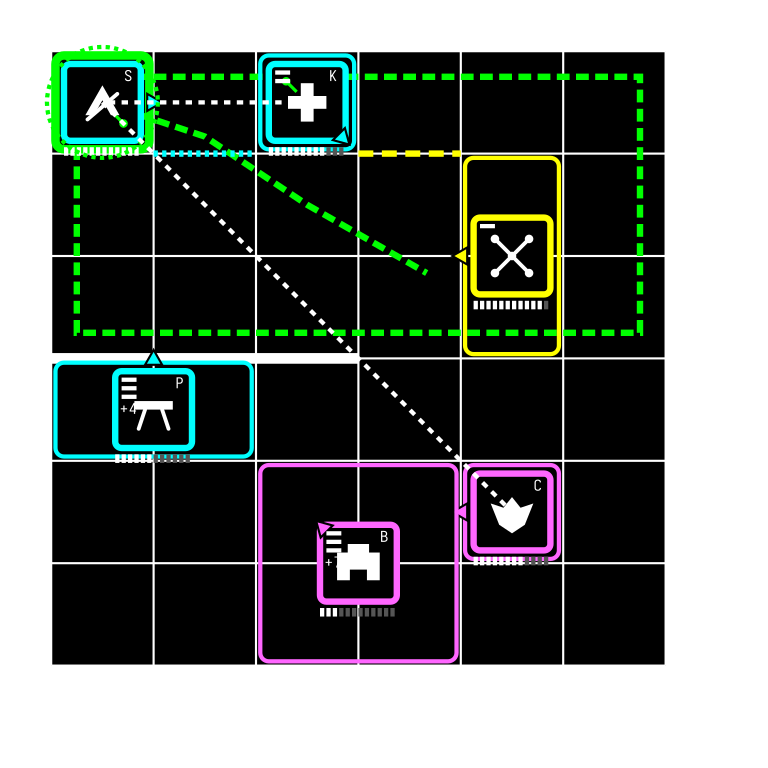
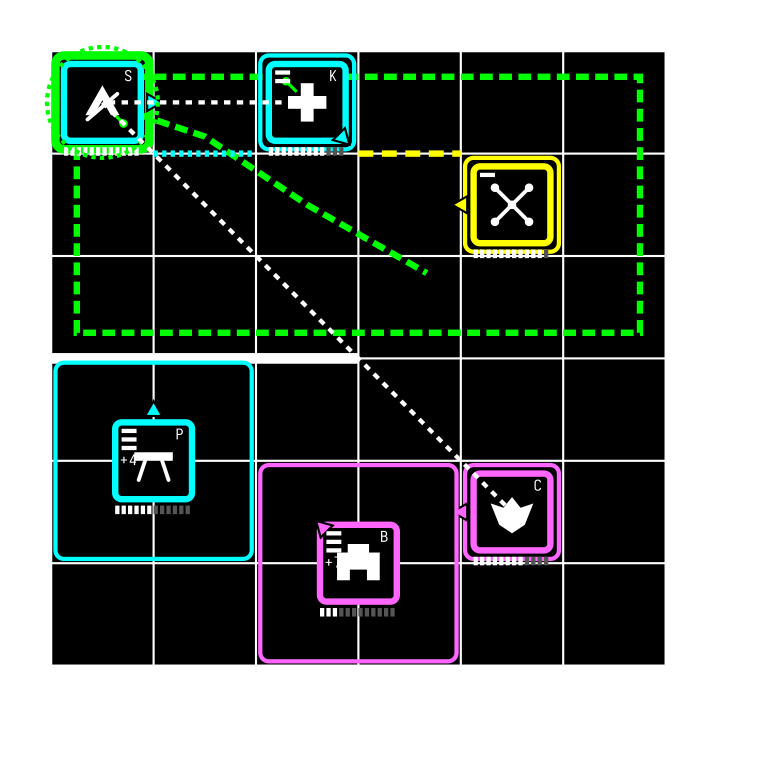
Keep battlefield unit bases square

Changed region(s): [[0.0625, 0.4375, 0.3438, 0.75], [0.5938, 0.1875, 0.75, 0.4688]]

diff --git a/docs/assets/svg-player-review/README.md b/docs/assets/svg-player-review/README.md
@@ -25,7 +25,7 @@ tier, and interpolation state.
 
 Review targets:
 
-- the one-cell and multi-cell authoritative footprints remain separate from
+- the one-cell and multi-cell square authoritative bases remain separate from
   the fixed square information symbols;
 - exact-class glyphs stay upright while the facing wedge moves around the
   perimeter;
@@ -46,8 +46,8 @@ the manifest for the same source state and toolchain.
 
 The three 768 × 768 PNGs were inspected at native size:
 
-- one-cell, 2 × 1, 1 × 2, and 2 × 2 outlines remain visibly independent of
-  their identically sized square symbols;
+- one-cell and 2 × 2 square base outlines remain visibly independent of their
+  fixed-size square information symbols;
 - all six class silhouettes remain recognizable and upright, including when
   their perimeter wedges point in different directions;
 - all twelve health positions can be counted. Active/depleted positions remain
